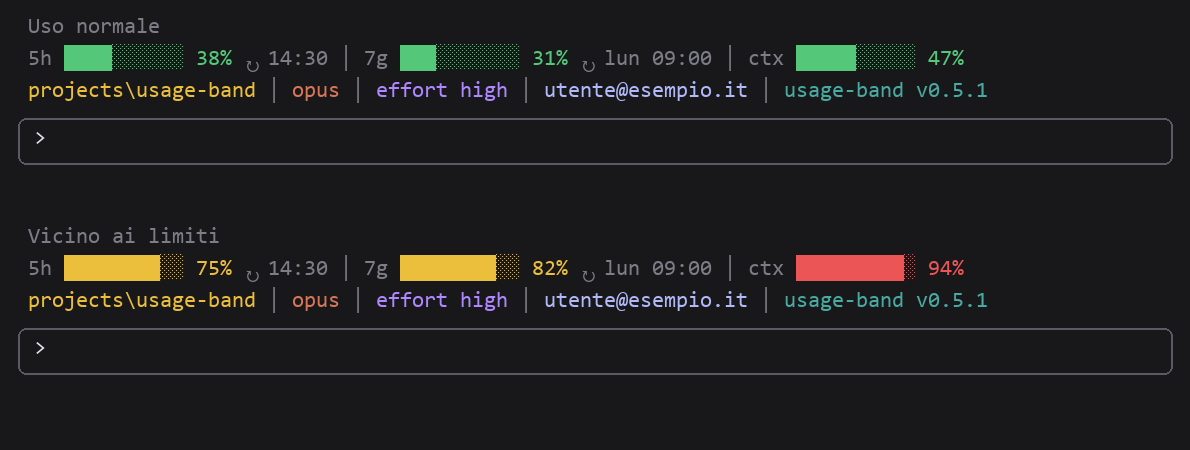
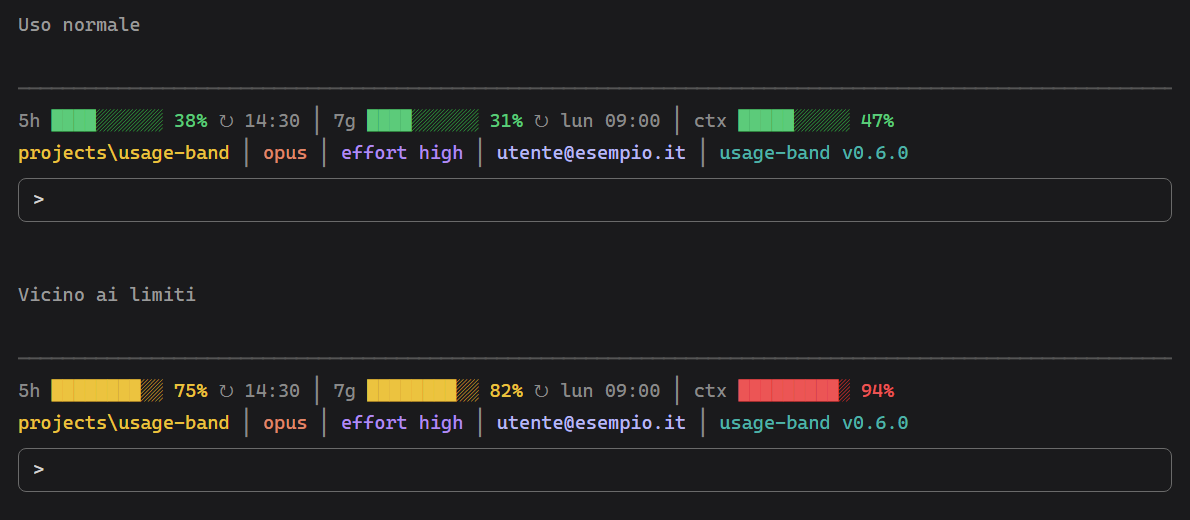
Versione 0.6.0: barra separata dalla chat con riga vuota e linea tenue

diff --git a/hooks/register.test.ts b/hooks/register.test.ts
@@ -39,8 +39,8 @@ test('la barra mostra le tre percentuali con i colori per soglia', async ($, on)
   expect(await ui.find({ text: /5h .* 75%/ })).toBeDefined()
   expect(await ui.find({ text: /7g .* 31%/ })).toBeDefined()
   expect(await ui.find({ text: /ctx .* 92%/ })).toBeDefined()
-  // Uno spazio tra il simbolo di reset e l'orario
-  expect(await ui.find({ text: /↻ \d{2}:\d{2}/ })).toBeDefined()
+  // Uno spazio tra il simbolo di reset e l'orario (preceduto dal giorno se il reset non è oggi)
+  expect(await ui.find({ text: /↻ (\p{L}{3} )?\d{2}:\d{2}/u })).toBeDefined()
   // Cartella padre e cartella di lavoro, in giallo
   expect(await ui.find({ text: 'Claude\\mio-progetto' })).toBeDefined()
   // Modello corrente ed email dell'account, ognuno col suo colore
@@ -48,6 +48,9 @@ test('la barra mostra le tre percentuali con i colori per soglia', async ($, on)
   expect(await ui.find({ text: 'maurizio@mavida.com' })).toBeDefined()
   // Versione del mod in fondo, letta dal suo plugin.json
   expect(await ui.find({ text: 'usage-band v9.9.9' })).toBeDefined()
+  // Separata dalla chat da una riga vuota e da una linea tenue
+  expect(await ui.find({ text: /^─+$/ })).toBeDefined()
+  expect(JSON.stringify(await ui.drawn())).toContain('"marginTop":1')
 
   // I tre colori per soglia compaiono nell'albero disegnato
   const tree = JSON.stringify(await ui.drawn())
@@ -133,9 +136,10 @@ test('su un terminale largo tutto sta su una riga, su uno stretto vanno due righ
       ).drawn(),
     )
 
-  // Stretto: la colonna di due righe è un Box; largo: solo Text annidati
-  expect(await draw(60)).toContain('"Box"')
-  expect(await draw(250)).not.toContain('"Box"')
+  // Il Box esterno tiene separatore e barra; stretto: un secondo Box per le due righe, largo: solo Text annidati
+  const boxes = (tree: string) => tree.split('"type":"Box"').length - 1
+  expect(boxes(await draw(60))).toBe(2)
+  expect(boxes(await draw(250))).toBe(1)
 })
 
 test("l'effort dell'ultima richiesta compare dopo il modello", async ($, on) => {

diff --git a/hooks/register.tsx b/hooks/register.tsx
@@ -251,16 +251,24 @@ export const register: Register = on => {
       .join(' │ ').length
     const isWide = USAGE_ROW_WIDTH + 3 + envLength <= (e.viewport?.columns ?? 0)
 
-    return isWide ? (
-      <Text>
-        {usageRow}
-        <Text dimColor> │ </Text>
-        {envRow}
-      </Text>
-    ) : (
-      <Box flexDirection="column">
-        {usageRow}
-        {envRow}
+    // Separatore dalla chat: una riga vuota e una linea tenue larga quanto la band
+    const separator = <Text dimColor>{'─'.repeat(Math.max(e.props.bodyColumns ?? 0, 1))}</Text>
+
+    return (
+      <Box flexDirection="column" marginTop={1}>
+        {separator}
+        {isWide ? (
+          <Text>
+            {usageRow}
+            <Text dimColor> │ </Text>
+            {envRow}
+          </Text>
+        ) : (
+          <Box flexDirection="column">
+            {usageRow}
+            {envRow}
+          </Box>
+        )}
       </Box>
     )
   })

diff --git a/CHANGELOG.md b/CHANGELOG.md
@@ -2,6 +2,17 @@
 
 Formato basato su [Keep a Changelog](https://keepachangelog.com/it/1.1.0/).
 
+## [0.6.0] - 2026-10-14
+
+### Modificato
+- La barra è separata meglio dalla chat: sopra c'è una riga vuota e una linea tenue (`─`) larga quanto la barra.
+- L'illustrazione `docs/usage-band.png` mostra la linea separatrice e la versione 0.6.0.
+
+### Corretto
+- Il test dell'orario di reset falliva quando il reset di esempio non cadeva oggi: ora accetta anche il giorno davanti all'orario.
+
+![La barra sopra il prompt, con uso normale e vicino ai limiti](docs/usage-band.png)
+
 ## [0.5.2] - 2026-10-14
 
 ### Corretto
